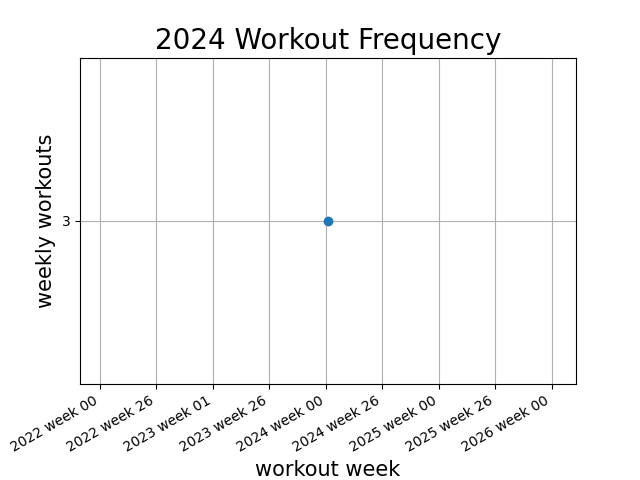
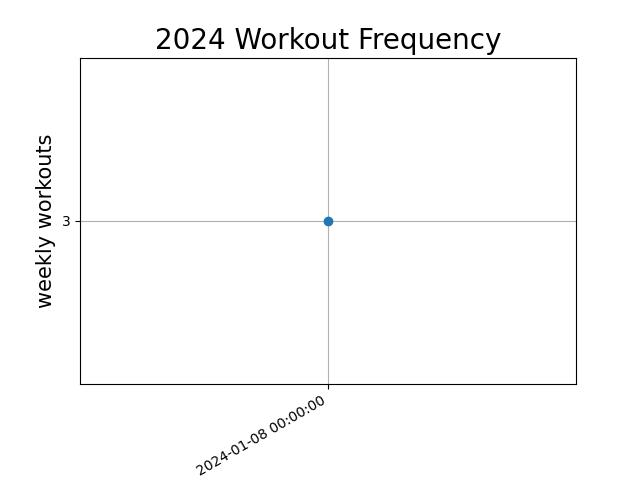
feat: split frequency plot by year

diff --git a/src/combined_metrics/combined_metrics.py b/src/combined_metrics/combined_metrics.py
@@ -31,66 +31,69 @@ from helpers.lookup import get_year_and_month  # type: ignore
 from model.model import get_data, one_rep_max_estimator, get_df  # type: ignore
 
 
-def plot_frequency(table):
-    """_summary_
-
-    :param table: _description_
-    :type table: _type_
-    """
-
+def get_frequency_data(table, year_to_plot: str) -> pd.DataFrame:
     df = pd.DataFrame()
-    year = str(dt.now().year)
+    # year = year_to_plot  # "2021"  # str(dt.now().year)
     for item in table:
 
-        if not item["date"].startswith(year):
+        if not item["date"].startswith(year_to_plot):
             continue
 
         year, week = get_year_and_week(item["date"])
-        df_tmp = pd.DataFrame({"year": year, "week": week, "workouts": 0}, index=[0])
+
+        # ic(year)
+        # ic(week)
+
+        df_tmp = pd.DataFrame(
+            {"year": year,
+             "week": week,
+             "workouts": 0
+             },
+            index=[0]
+            )
         df = pd.concat(
             [df, df_tmp],
             ignore_index=True,
         )
     res = df.groupby(["year", "week"]).size()
     res_df = res.to_frame(name="workouts").reset_index()
-    print(res_df)
     res_df["date"] = pd.to_datetime(
         res_df.assign(day=1, month=1)[["year", "month", "day"]]
     ) + pd.to_timedelta(res_df.week * 7, unit="days")
-    # print(res_df)
+    return res_df
 
-    fig, ax = plt.subplots()
-    # plt.style.use("seaborn-v0_8")
-    res_df.plot(x="date", y="workouts", marker="o", ax=ax)
-    # bar = sns.barplot(data=res_df, x="date", y="workouts", ax=ax)
+
+def plot_frequency(table, year_to_plot: str) -> None:
+    """_summary_
+
+    :param table: _description_
+    :type table: _type_
+    """
+
+    res_df = get_frequency_data(table, year_to_plot)
+    ic(res_df)
+
+    _, ax = plt.subplots()
+    res_df['date'] = pd.to_datetime(res_df['date'])
+    plt.plot(res_df['date'], res_df['workouts'], marker='o', linestyle='-', color='b')
+
+    ax.xaxis.set_major_locator(mdates.WeekdayLocator())
 
     freq_format = mdates.DateFormatter("%Y week %U")
     ax.xaxis.set_major_formatter(freq_format)
-    # TODO: trim xaxis to remove areas without data points
-
-    ax.get_legend().remove()
+    plt.xticks(rotation=45)
+    # ax.get_legend().remove()
     plt.yticks(res_df["workouts"], res_df["workouts"])
-
-    # ax.bar(res_df["date"], res_df["workouts"])
-    # sns.barplot(data=res_df, x="date", y="workouts")
-    # plt.xticks(res_df["date"], rotation=90)
-
-    # for item in bar.get_xticklabels():
-    #     item.set_rotation(45)
-    # plt.xticks(rotation=70)
-
-    # plt.plot_date(res_df["date"], res_df["workouts"], linestyle="solid")
-    # plt.gcf().autofmt_xdate()
-    # plt.tight_layout()
-    # sns.histplot(data=res_df, x="week", y="workouts", binwidth=1, kde=True, hue="year")
-
     plt.xlabel("workout week", fontsize=15)
     plt.ylabel("weekly workouts", fontsize=15)
-    plt.grid()
-
-    plt.title(f"{year} Workout Frequency", fontsize=20)
-    plt.savefig(f"img/{year}_workout_frequency.png")
-    # plt.show()
+    plt.grid(True)
+    plt.tight_layout()
+    plt.subplots_adjust(top=0.9)
+    # Adjust x-axis limits to shift data points to the left
+    plt.xlim(res_df['date'].iloc[0] - pd.to_timedelta(3, unit='d'), res_df['date'].iloc[-1] + pd.to_timedelta(3, unit='d'))
+    plt.title(f"{year_to_plot} Workout Frequency", fontsize=20)
+    plt.savefig(f"img/{year_to_plot}_workout_frequency.png")
+    plt.show()
     plt.clf()
 
 
@@ -239,9 +242,12 @@ def main() -> None:
     month_to_plot = args.month_to_plot
 
     # datatype = "real"
-    _, table, _ = set_db_and_table(datatype)
 
-    plot_frequency(table)
+    # year = dt.strptime(year_to_plot, "%Y")
+
+    _, table, _ = set_db_and_table(datatype, year=int(year_to_plot))
+
+    plot_frequency(table, year_to_plot)
     plot_duration(table, year_to_plot, month_to_plot)
     # plot_duration_volume_1rm(table)
 
